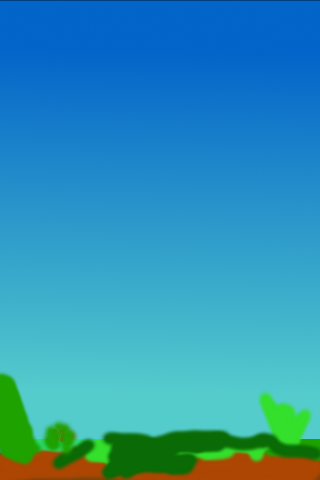
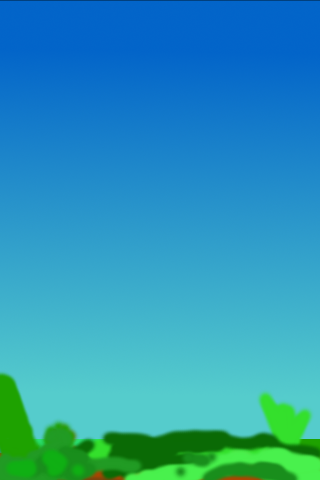
Added buttons, graphical cahnges

Changed region(s): [[0.0, 0.875, 1.0, 1.0]]

diff --git a/core/src/sk/feri/awesomegame/Assets.java b/core/src/sk/feri/awesomegame/Assets.java
@@ -39,6 +39,13 @@ public class Assets {
 	public static TextureRegion SquareBlockR;
 	public static TextureRegion SquareBlockG;
 	public static TextureRegion SquareBlockY;
+	public static TextureRegion ButtonYou;
+	public static TextureRegion ButtonWorld;
+	public static TextureRegion ButtonScore;
+	public static TextureRegion ButtonMaxDistance;
+	public static TextureRegion ButtonTotalDistance;
+	public static TextureRegion ButtonGames;
+	public static TextureRegion ButtonName;
 	public static Animation playerNormal;
 	public static TextureRegion logo;
 	public static Animation projectileAnim;
@@ -96,6 +103,13 @@ public class Assets {
 		SquareBlockG = new TextureRegion(textures, 0, 103, 32, 32);
 		SquareBlockY = new TextureRegion(textures, 0, 135, 32, 32);
 		SquareBlockR = new TextureRegion(textures, 0, 167, 32, 32);
+		ButtonWorld = new TextureRegion(textures, 35, 274, 35, 35);
+		ButtonYou= new TextureRegion(textures, 0, 274, 35, 35);
+		ButtonMaxDistance= new TextureRegion(textures, 105, 274, 35, 35);
+		ButtonTotalDistance = new TextureRegion(textures, 140, 274, 35, 35);
+		ButtonGames = new TextureRegion(textures, 175, 274, 35, 35);
+		ButtonScore = new TextureRegion(textures, 70, 274, 35, 35);
+		ButtonName = new TextureRegion(textures, 0,309 , 32, 32);
 		playerNormal = new Animation(0.2f, new TextureRegion(textures, 0, 203, 62, 62), new TextureRegion(textures, 62, 203, 62, 62), new TextureRegion(textures, 124, 203, 62, 62));
 		logo = new TextureRegion(textures, 0, 352, 274, 142);
 		projectileAnim  = new Animation(0.2f, new TextureRegion(textures, 0, 34, 5, 11), new TextureRegion(textures, 5, 34, 5, 11), new TextureRegion(textures, 10, 34, 5, 11),

diff --git a/core/src/sk/feri/awesomegame/HighscoresScreen.java b/core/src/sk/feri/awesomegame/HighscoresScreen.java
@@ -116,13 +116,13 @@ public class HighscoresScreen extends ScreenAdapter {
 
 		if (drawScoreButtons) {
 			//order by buttons
-			game.batcher.draw(Assets.SquareBlockG, 160, 10, 30, 30);
-			game.batcher.draw(Assets.SquareBlockG, 200, 10, 30, 30);
-			game.batcher.draw(Assets.SquareBlockY, 240, 10, 30, 30);
-			game.batcher.draw(Assets.SquareBlockR, 280, 10, 30, 30);
+			game.batcher.draw(Assets.ButtonScore, 160, 10, 30, 30);
+			game.batcher.draw(Assets.ButtonMaxDistance, 200, 10, 30, 30);
+			game.batcher.draw(Assets.ButtonTotalDistance, 240, 10, 30, 30);
+			game.batcher.draw(Assets.ButtonGames, 280, 10, 30, 30);
 			//score buttons
-			game.batcher.draw(Assets.SquareBlockG, 240, 50, 30, 30);
-			game.batcher.draw(Assets.SquareBlockR, 280, 50, 30, 30);
+			game.batcher.draw(Assets.ButtonYou, 240, 50, 30, 30);
+			game.batcher.draw(Assets.ButtonWorld, 280, 50, 30, 30);
 		}
 		game.batcher.end();
 	}

diff --git a/core/src/sk/feri/awesomegame/MainMenuScreen.java b/core/src/sk/feri/awesomegame/MainMenuScreen.java
@@ -34,7 +34,7 @@ public class MainMenuScreen extends ScreenAdapter {
 		highscoresBounds = new Rectangle(160 - 150, 200 - 18, 300, 36);
 
 		// TODO: Help tlacitko neklikaj :D
-		//helpBounds = new Rectangle(160 - 150, 200 - 18 - 36, 300, 36);
+		helpBounds = new Rectangle(160 - 150, 200 - 18 - 36, 300, 36);
 
 		helpBounds = new Rectangle();
 		touchPoint = new Vector3();
@@ -114,7 +114,7 @@ public class MainMenuScreen extends ScreenAdapter {
 		game.batcher.draw(Assets.mainMenu, 10, 200 - 110 / 2, 300, 110);
 		game.batcher.draw(Settings.soundEnabled ? Assets.soundOn : Assets.soundOff, 0, 0, 64, 64);
 
-		game.batcher.draw(Assets.SquareBlockR, 160, 10, 30, 30);
+		game.batcher.draw(Assets.ButtonName, 160, 10, 30, 30);
 
 		Assets.font.draw(game.batcher, difficultyString, 90, 60);
 		game.batcher.draw(Assets.SquareBlockG, 200, 10, 30, 30);

diff --git a/core/src/sk/feri/awesomegame/GameScreen.java b/core/src/sk/feri/awesomegame/GameScreen.java
@@ -77,7 +77,7 @@ public class GameScreen extends ScreenAdapter {
 		quitBounds = new Rectangle(160 - 96, 240 - 36, 192, 36);
 		lastScore = 0;
 		scoreString = "SCORE: 0";
-		bulletsString = "BULLETS: " + world.player.getProjectileCount();
+		bulletsString = "ARROWS: " + world.player.getProjectileCount();
 		gameOverSleep = false;
 
 		if (Settings.attempts == 0){
@@ -140,7 +140,7 @@ public class GameScreen extends ScreenAdapter {
 			lastScore = world.score;
 			scoreString = "SCORE: " + lastScore;
 		}
-		bulletsString = "BULLETS: " + world.player.getProjectileCount();
+		bulletsString = "ARROWS: " + world.player.getProjectileCount();
 		if (world.state == World.WORLD_STATE_NEXT_LEVEL) {
 			game.setScreen(new WinScreen(game));
 		}
